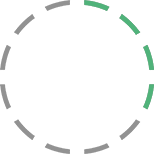
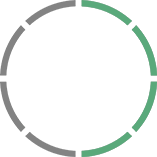
修改RSSI的错误

Changed region(s): [[0.0, 0.0, 1.0, 1.0], [0.0, 0.3377, 0.026, 0.3636]]

diff --git a/Innway/InDevice/InControlDeviceViewController.m b/Innway/InDevice/InControlDeviceViewController.m
@@ -57,6 +57,7 @@
 @property (weak, nonatomic) IBOutlet UIImageView *imageView;
 @property (strong,nonatomic)UIImagePickerController * imagePikerViewController;
 @property (nonatomic, strong) UIImagePickerController *libraryPikerViewController;
+@property (nonatomic,retain)AVCaptureSession *captureSession;
 
 // 按钮闪烁动画
 @property (nonatomic, strong) NSTimer *animationTimer;
@@ -856,6 +857,52 @@
     [common setupSharkLight];
 }
 
+- (IBAction)changeCameraDirection {
+    NSLog(@"改变相机的方向");
+    [self swapFrontAndBackCameras];
+}
+
+// 切换前后置摄像头
+- (AVCaptureDevice *)cameraWithPosition:(AVCaptureDevicePosition)position
+{
+    NSArray *devices = [AVCaptureDevice devicesWithMediaType:AVMediaTypeVideo];
+    for (AVCaptureDevice *device in devices )
+        if ( device.position == position )
+            return device;
+    return nil;
+}
+
+- (void)swapFrontAndBackCameras {
+    // Assume the session is already running
+    
+    NSArray *inputs =self.captureSession.inputs;
+    for (AVCaptureDeviceInput *input in inputs ) {
+        AVCaptureDevice *device = input.device;
+        if ( [device hasMediaType:AVMediaTypeVideo] ) {
+            AVCaptureDevicePosition position = device.position;
+            AVCaptureDevice *newCamera =nil;
+            AVCaptureDeviceInput *newInput =nil;
+            
+            if (position ==AVCaptureDevicePositionFront)
+                newCamera = [self cameraWithPosition:AVCaptureDevicePositionBack];
+            else
+                newCamera = [self cameraWithPosition:AVCaptureDevicePositionFront];
+            newInput = [AVCaptureDeviceInput deviceInputWithDevice:newCamera error:nil];
+            
+            // beginConfiguration ensures that pending changes are not applied immediately
+            [self.captureSession beginConfiguration];
+            
+            [self.captureSession removeInput:input];
+            [self.captureSession addInput:newInput];
+            
+            // Changes take effect once the outermost commitConfiguration is invoked.
+            [self.captureSession commitConfiguration];
+            break;
+        }
+    }
+}
+
+
 - (IBAction)goPhotoLibrary {
     NSLog(@"进入相册");
     // 解决iPhone5S上导航栏会消失的Bug
@@ -997,6 +1044,33 @@
         _deviceAnnotation = [NSMutableDictionary dictionary];
     }
     return _deviceAnnotation;
+}
+
+- (AVCaptureSession *)captureSession
+{
+    if(_captureSession == nil)
+    {
+        _captureSession = [[AVCaptureSession alloc] init];
+        //设置分辨率
+        if ([_captureSession canSetSessionPreset:AVCaptureSessionPreset1280x720]) {
+            _captureSession.sessionPreset=AVCaptureSessionPreset1280x720;
+        }
+        
+        //添加后置摄像头的输入
+        AVCaptureDevice *frontdevice = [AVCaptureDevice defaultDeviceWithMediaType:AVMediaTypeVideo];
+        AVCaptureDeviceInput *deviceFrontInput = [AVCaptureDeviceInput deviceInputWithDevice:frontdevice error:nil];
+        if ([_captureSession canAddInput:deviceFrontInput]){
+            [_captureSession addInput:deviceFrontInput];
+        }
+        
+        // 添加后置摄像头
+        AVCaptureDevice *backdevice = [AVCaptureDevice defaultDeviceWithMediaType:AVMediaTypeVideo];
+        AVCaptureDeviceInput *deviceBackInput = [AVCaptureDeviceInput deviceInputWithDevice:backdevice error:nil];
+        if ([_captureSession canAddInput:deviceBackInput]){
+            [_captureSession addInput:deviceBackInput];
+        }
+    }
+    return _captureSession;
 }
 
 @end

diff --git a/Innway/Bluetooth/DLDevice.m b/Innway/Bluetooth/DLDevice.m
@@ -30,6 +30,7 @@
 @property (nonatomic, assign) BOOL isDiscoverServer; //是否获取到服务
 @property (nonatomic, assign) NSInteger alertMusic;
 @property (nonatomic, strong) NSMutableDictionary *data;
+@property (nonatomic, strong) NSMutableArray *rssiValues;
 @end
 
 @implementation DLDevice
@@ -612,15 +613,38 @@
 }
 
 - (void)setRssi:(NSNumber *)rssi {
-    _rssi = rssi;
-    // RSSI改变要发出通知
-    [[NSNotificationCenter defaultCenter] postNotificationName:DeviceRSSIChangeNotification object:self];
+    if (_rssi.intValue == offlineRSSI.intValue && rssi.intValue != offlineRSSI.intValue) { // 从离线变为在线的第一次马上发出通知
+        _rssi = rssi;
+        // RSSI改变要发出通知
+        [[NSNotificationCenter defaultCenter] postNotificationName:DeviceRSSIChangeNotification object:self];
+    }
+    else {
+        [self.rssiValues addObject:rssi]; //加入新值
+        // 找出最大值
+        if (self.rssiValues.count == 3) {
+            _rssi = [self getMaxRssi]; // 赋值最大值
+            // RSSI改变要发出通知
+            [[NSNotificationCenter defaultCenter] postNotificationName:DeviceRSSIChangeNotification object:self];
+            // 清除RSSI数组
+            [self.rssiValues removeAllObjects];
+        }
+    }
 }
 
 - (void)readRSSI {
     if (self.online) {
         [self.peripheral readRSSI];
     }
+}
+
+- (NSNumber *)getMaxRssi {
+    NSNumber *maxRssi = offlineRSSI;
+    for (NSNumber *rssi in self.rssiValues) {
+        if (rssi.intValue > maxRssi.intValue) {
+            maxRssi = rssi;
+        }
+    }
+    return maxRssi;
 }
 
 - (void)changeStatusToDisconnect{
@@ -742,6 +766,13 @@
     NSLog(@"结束查找设备定时器");
     dispatch_source_cancel(_ackDelayTimer);
     _ackDelayTimer = nil;
+}
+
+- (NSMutableArray *)rssiValues {
+    if (!_rssiValues) {
+        _rssiValues = [NSMutableArray array];
+    }
+    return _rssiValues;
 }
 
 @end

diff --git a/Innway/InTool/InCommon.m b/Innway/InTool/InCommon.m
@@ -420,52 +420,36 @@ static SystemSoundID soundID;
 
 - (NSString *)getImageName:(NSNumber *)rssi {
     NSInteger rSSI = rssi.integerValue;
-    NSString *imageName = @"RSSI_11";
-    if(rSSI>=-70)
-    {
-        imageName = @"RSSI_12";
-    }
-    else if(rSSI>-73)//>90%
-    {
-        imageName = @"RSSI_11";
-    }
-    else if(rSSI>-76)//>80%
-    {
-        imageName = @"RSSI_10";
-    }
-    else if(rSSI>-79)//>70%
-    {
-        imageName = @"RSSI_9";
-    }
-    else if(rSSI>-82)//>60%
+    NSString *imageName = @"RSSI_8";
+    if(rSSI>-70)
     {
         imageName = @"RSSI_8";
     }
-    else if(rSSI>-85)//>50%
+    else if(rSSI>-76)
     {
         imageName = @"RSSI_7";
     }
-    else if(rSSI>-88)//>40%
+    else if(rSSI>-82)
     {
         imageName = @"RSSI_6";
     }
-    else if(rSSI>-91)//>30%
+    else if(rSSI>-88)
     {
         imageName = @"RSSI_5";
     }
-    else if(rSSI>-94)//>20%
+    else if(rSSI>-94)
     {
         imageName = @"RSSI_4";
     }
-    else if(rSSI>-97)//>10%
+    else if(rSSI>-100)
     {
         imageName = @"RSSI_3";
     }
-    else if(rSSI>-100)//>10%
+    else if(rSSI>-105)
     {
         imageName = @"RSSI_2";
     }
-    else if(rSSI>-103)//>10%
+    else if(rSSI>-109)
     {
         imageName = @"RSSI_1";
     }

diff --git a/Innway/Bluetooth/DLDevice.h b/Innway/Bluetooth/DLDevice.h
@@ -80,5 +80,4 @@ typedef void (^DidUpdateValue)(DLDevice *device, NSDictionary *value, NSError *e
 - (void)selecteDiconnectAlertMusic:(NSInteger)alertMusic;
 
 - (void)startSearchDeviceTimer;
-- (void)stopSearchTimer;
 @end
